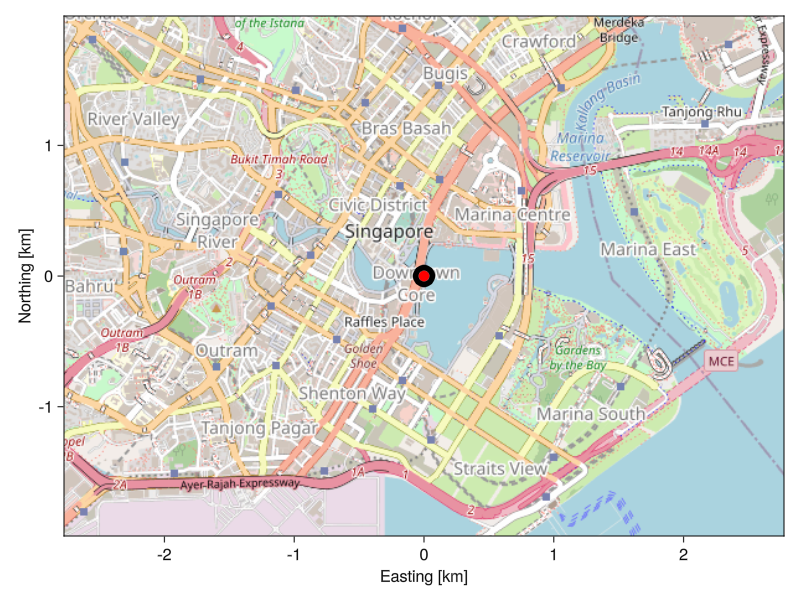
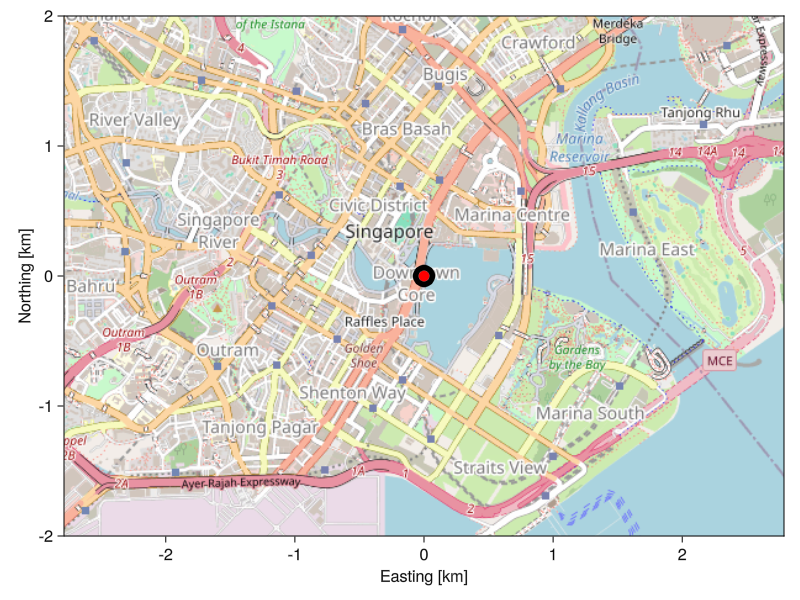
Update README

diff --git a/README.md b/README.md
@@ -1,4 +1,6 @@
-# MapMakie.jl - OpenStreetMap in Makie
+# MapMakie.jl
+
+Plot on OpenStreetMaps using Makie.
 
 ## Example
 
@@ -6,37 +8,54 @@
 
 ```julia
 using GLMakie, MapMakie, Unitful
-
-origin = webmercator(1.286770, 103.854307) # The Merlion, Singapore
-f = Figure(resolution = 200 .* (4,3))
+f = Figure()
 a = MapAxis(
     f[1,1];
-    origin,
-    ticks_coordinates = (:EastingNorthing, u"km"),
-    xlabel = "Easting [km]",
-    ylabel = "Northing [km]",
-    limits = (-1,1,-1,1)./10_000, # Web Mercator units relative to `origin`
+    origin = LatLon(1.286770, 103.854307), # Merlion, Singapore
+    ticks_coordinate = (EastNorth, u"km"),
+    limits = (East.(2e3.*(-1,1)), North.(2e3.*(-1,1))),
 )
 scatter!(
     a,
-    Point2f[(0,0)], # Web Mercator units relative to `origin`
+    Point2f[(0,0)], # WebMercator coordinates relative to `origin`
     color = :red,
     markersize = 15,
     strokewidth = 6,
 )
+display(f)
 save("/tmp/merlion.png", f)
 ```
 
-## Installation
+## Documentation
 
-```julia
-julia> using Pkg; Pkg.add(url="https://github.com/subnero1/MapMakie.jl")
+#### MapAxis
+
 ```
+MapAxis(args...; origin, kwargs...) -> axis::Makie.Axis
+```
+
+Create a new `Axis` showing OpenStreetMaps.
+
+The object returned by this function is a plain `Makie.Axis` and can be used to plot additional data like any other `Axis`. The map is shown in `MapMaths.WebMercator` coordinates shifted by `-WebMercator(origin)`.
+
+All positional arguments and any keyword arguments other than the ones mentioned below are forwarded to `Axis()`.
+
+##### Keyword arguments
+
+- `origin::MapMaths.Coordinate{2}`: Map origin.
+
+  This parameter serves two purposes:
+  1) Avoid the loss of precision that would otherwise be incurred for locations at high latitudes and longitudes due to Makie performing most computations in `Float32`. See also [Loss of precision when plotting large floats in Makie](https://github.com/MakieOrg/Makie.jl/issues/1196) and related issues in Makie.jl.
+  2) Set the origin for the x- and y-ticks if `ticks_coordinate` is `EastNorth` (see `ticks_coordinate` below).
+
+- `ticks_coordinate = WebMercator`: The coordinate system in which to show the x- and y-ticks.
+
+  Can be any subtype of `MapMaths.Coordinate{2}`, or `(MapMaths.EastNorth, unit)` where `unit` is either a plain number denoting meters, a `Unitful.LengthUnits` or a `Unitful.Length`. `EastNorth` ticks are shown relative to `origin`, all other ticks are shown using their global values.
+
+- `limits = ((-1,1), (-1,1))`: Axis limits.
+
+  Follows the same format as `Makie.Axis()`, except that any number can also be a `MapMaths.EastWestCoordinate` or `MapMaths.NorthSouthCoordinate` as appropriate. `East` and `North` limits are applied relative to `origin`, all other limits are applied as global values.
 
 ## Technical details
 
-- Dynamically loads map tiles from https://tile.openstreetmap.org/.
-- Caches up to 100 MB of map tiles in memory using [LRUCache.jl](https://github.com/JuliaCollections/LRUCache.jl).
-- Users of this package must adhere to [OpenStreetMap's Tile Usage Policy
-](https://operations.osmfoundation.org/policies/tiles/).
-- Coming soon: offline mode, and better integration with [MapMaths.jl](https://github.com/subnero1/MapMaths.jl).
+MapMakie dynamically loads the map tiles required from https://tile.openstreetmap.org/. Users of this package must therefore adhere to [OpenStreetMap's Tile Usage Policy](https://operations.osmfoundation.org/policies/tiles/). The most-recently used 100 MB of map tiles are cached in memory using [LRUCache.jl](https://github.com/JuliaCollections/LRUCache.jl).
